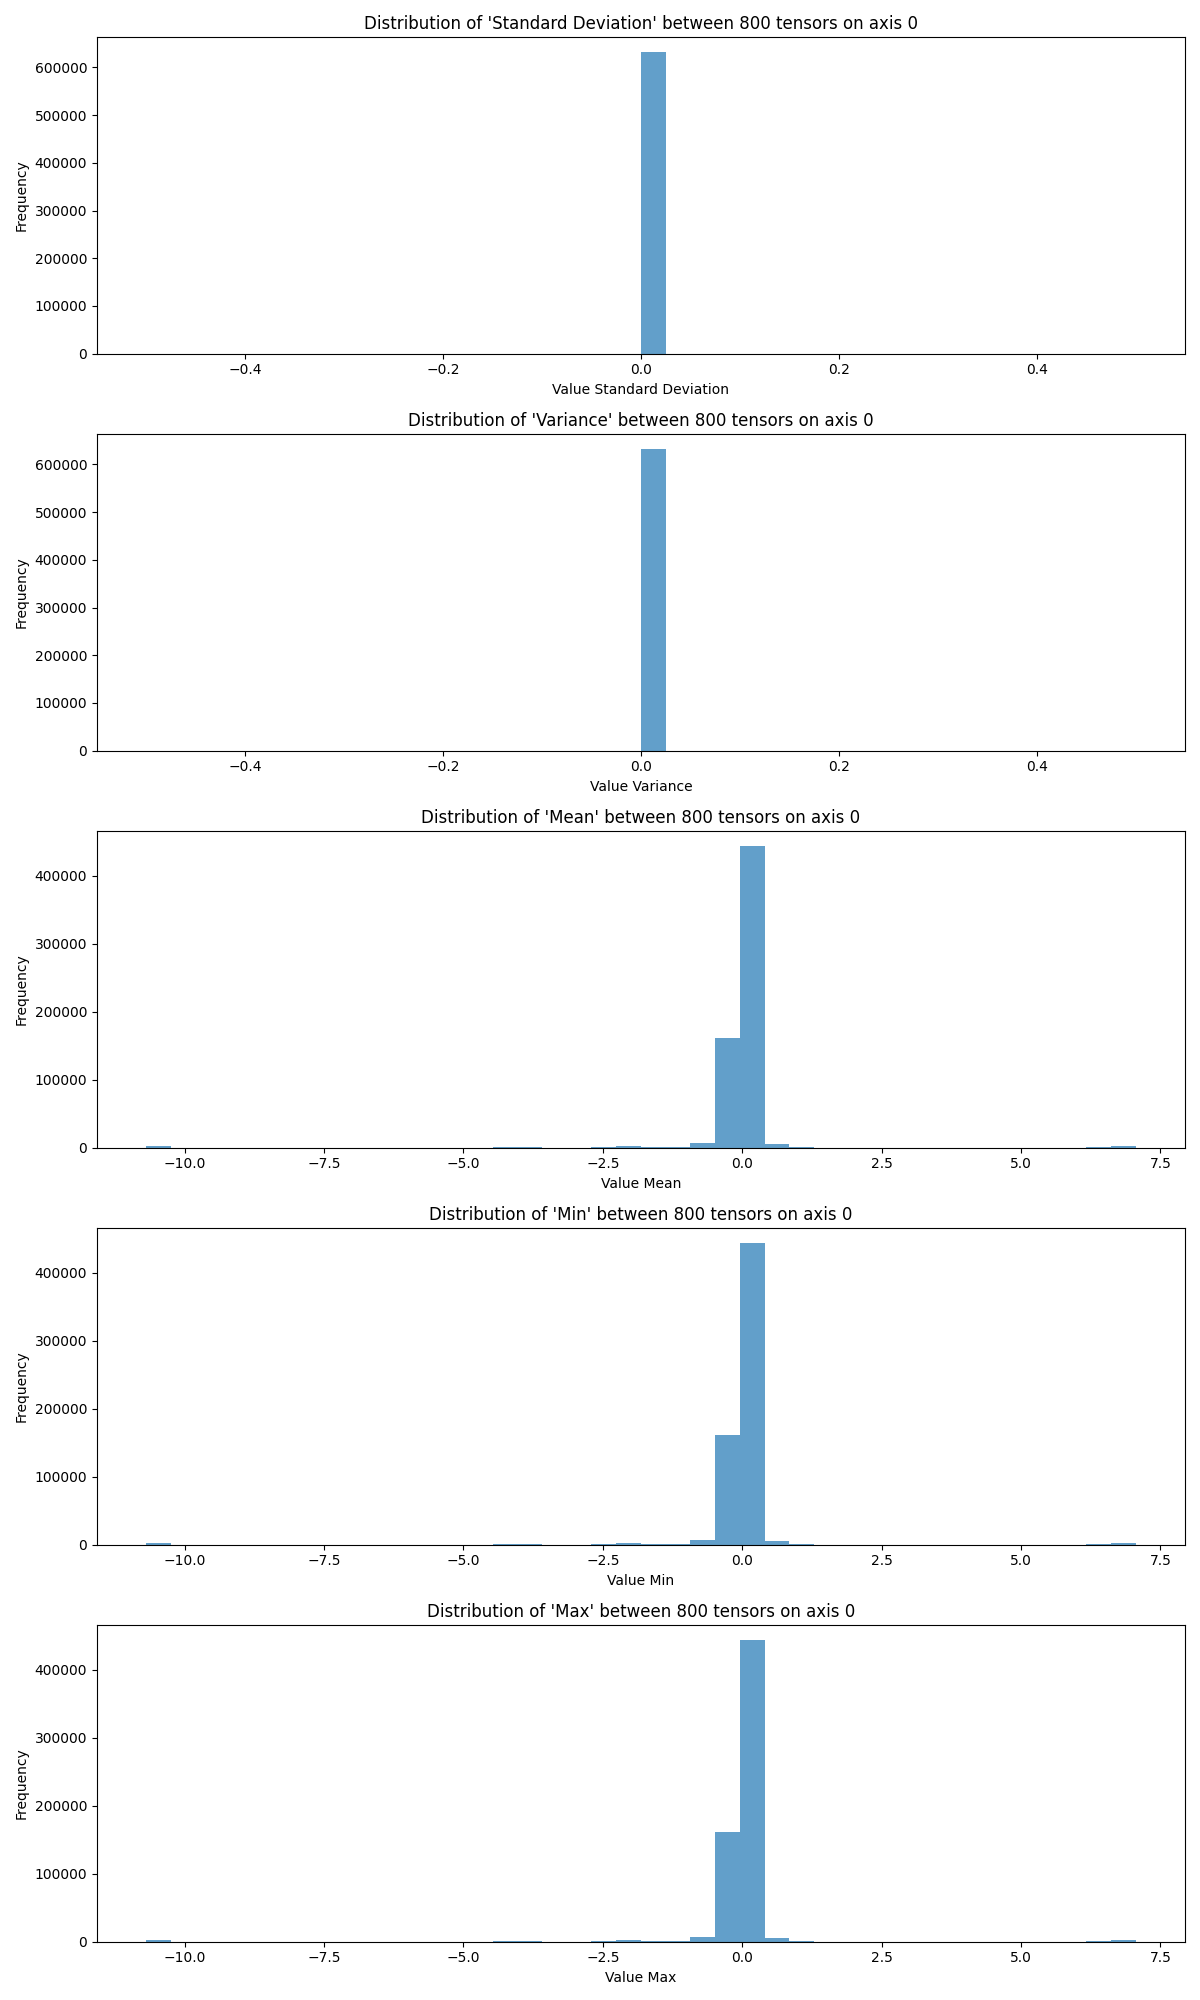
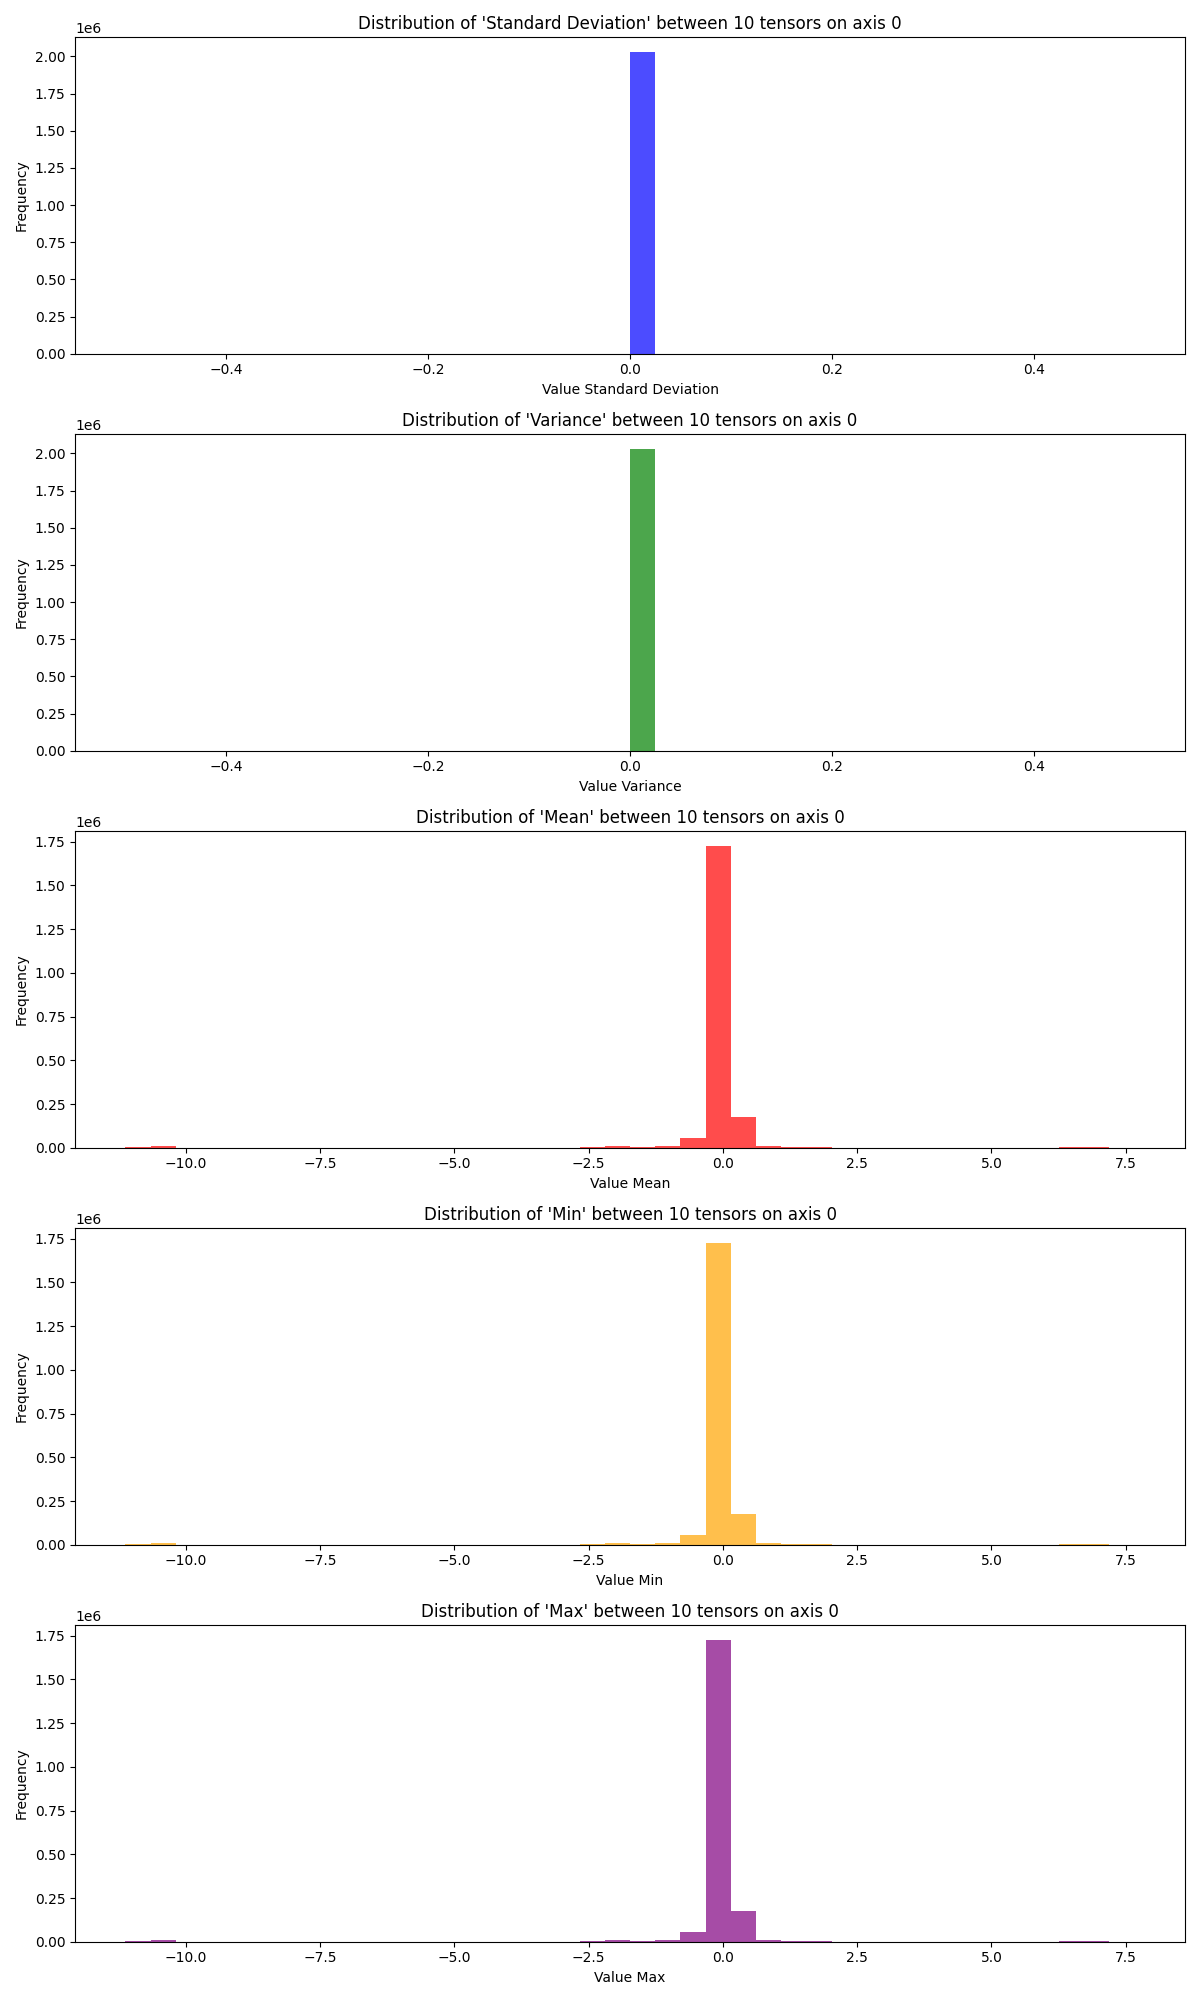
visualize data title string corrected

diff --git a/src/visualize_data.py b/src/visualize_data.py
@@ -1,3 +1,4 @@
+from os.path import basename, splitext, join
 import tensorflow as tf
 import numpy as np
 import argparse
@@ -8,11 +9,12 @@ from sklearn.decomposition import PCA
 from mpl_toolkits.mplot3d import Axes3D
 
 import loader
+import utils
 
 # Creazione di un tensore di esempio (sostituisci con il tuo tensore effettivo)
 # Il tensore dovrebbe avere la forma (n_campioni, n_dimensioni)
 
-OPERATIONS = ['statistics', 'statistics-all', 'TSNE']
+OPERATIONS = ['statistics-all', 'TSNE']
 COLORS = ["blue", "green", "red", "orange", "purple"]
 
 def my_TSNE(tensors):
@@ -35,7 +37,6 @@ def my_TSNE(tensors):
     # Mostra il grafico
     plt.show()
 
-def statistics(tensor_list):
     # Inizializza le liste per raccogliere le statistiche
     std_list = []
     var_list = []
@@ -76,7 +77,7 @@ def statistics(tensor_list):
 
     plt.savefig('statistics_test.png')
 
-def statistics_axis(tensor_list, axis=0):
+def statistics_axis(tensor_list, axis=0, output_path="./"):
     measures = ["Standard Deviation", "Variance", "Mean", "Min", "Max"]
     # Inizializza le liste per raccogliere le statistiche
     statistics = {
@@ -122,7 +123,7 @@ def statistics_axis(tensor_list, axis=0):
         axs[i].set_ylabel('Frequency')
 
     plt.tight_layout()
-    plt.savefig('statistics_test_axis'+ str(axis) + '.png')
+    plt.savefig(join(output_path, 'statistics_test_axis' + str(axis) + '.png'))
 
 def plot_3d_tensor(tensor, filename="3d_tensor_plot.png"):
     fig = plt.figure()
@@ -189,8 +190,10 @@ def my_PCA(tensor, n_components = 2):
 
     plt.show()
 
-def plot_tensor_fft_spectrum(tensor, log_scale=False):
+def plot_tensor_fft_spectrum(tensor, log_scale=False, save_in="./"):
+    name = "unknown"
     if isinstance(tensor, TensorContainer):
+        name = tensor.get_name()
         tensor = tensor.get_tensor()
     x, y, z = tensor.shape
     fft_results = []
@@ -202,21 +205,20 @@ def plot_tensor_fft_spectrum(tensor, log_scale=False):
     # Plotta lo spettro dell'FFT
     plt.imshow(np.log1p(fft_magnitude), cmap='viridis')  # Applica il logaritmo per una migliore visualizzazione
     plt.colorbar()
-    plt.title('Spettro dell\'FFT del Tensore')
-    plt.show()
+    plt.title(f'Tensor spectrum (FFT) {name}')
+    plt.savefig(join(save_in, name))
 
 def main(args):
 
-    np_tensors_list = loader.load_from_directory(args.input_path, args.n)
-
+    tensor_container_list = loader.load_from_directory(args.input_path, args.n)
+    tensors_list = utils.convert_to_tensor_list(tensor_container_list)
     operation = args.op
     if operation == OPERATIONS[0]:
-        statistics(np_tensors_list)
-    elif operation == OPERATIONS[1]:
         for i  in range(0, 4):
-            statistics_axis(np_tensors_list, axis=i)
-    elif operation == OPERATIONS[2]:
-        my_TSNE(np_tensors_list)
+            statistics_axis(tensors_list, axis=i, output_path=args.output_path)
+        statistics_axis(tensors_list, axis=None, output_path=args.output_path)
+    elif operation == OPERATIONS[1]:
+        my_TSNE(tensors_list)
 
 def parse_args():
     parser = argparse.ArgumentParser(

diff --git a/src/loader.py b/src/loader.py
@@ -4,6 +4,7 @@ import random
 import argparse
 import numpy as np
 import tensorflow as tf
+import utils
 from utils import TensorType, TensorContainer
 
 # Setting global seed
@@ -22,7 +23,6 @@ def load_from_directory(directory, batch_size, return_list=True):
     for filename in files_batch:
         file_path = os.path.join(directory, filename)
         name = splitext(basename(filename))[0]
-        print(name)
         try:
             data = np.load(file_path)
             if filename.endswith(".npz"):
@@ -42,23 +42,18 @@ def load_from_directory(directory, batch_size, return_list=True):
     else:
         print("No-Dict Returned.")
 
-# Convert a list of narray into a list of tf tensors
-def convert_to_tf(tensors:list):
-    for tensor_c in tensors:
-        tensor_c.tensor = tf.convert_to_tensor(tensor_c.get_tensor())
-        tensor_c.tensor_type = TensorType.TF_TENSOR
-    return
+
 
 
 def load_tensors(input_path, n=0, tensor_type=TensorType.TF_TENSOR):
     tensors = load_from_directory(input_path, n)
     if tensor_type == TensorType.TF_TENSOR:
-        convert_to_tf(tensors)
+        utils.convert_to_tf(tensors)
     return tensors
 
 def main(args):
     np_arr_list = load_from_directory(args.input_path, args.n ,return_list=True)
-    tf_arr_list = convert_to_tf(np_arr_list)
+    tf_arr_list = utils.convert_to_tf(np_arr_list)
     print(tf_arr_list)
 
 def parse_args():

diff --git a/test/fft2_test.py b/test/fft2_test.py
@@ -1,0 +1,27 @@
+import numpy as np
+import matplotlib.pyplot as plt
+from matplotlib.colors import LogNorm
+from scipy.fftpack import fftshift, fft2
+from PIL import Image
+
+# Percorso dell'immagine .png da aprire
+image_path = './test_fake_images/seed03834427.png'
+
+# Apri l'immagine e convertila in scala di grigi
+image = Image.open(image_path).convert('L')
+image_array = np.array(image)
+
+# Calcola la FFT2 dell'immagine e shifta lo spettro verso il centro
+fft_result = fft2(image_array)
+fft_shifted = fftshift(fft_result)
+
+# Calcola il modulo e il logaritmo del modulo per una migliore visualizzazione
+fft_magnitude = np.abs(fft_shifted)
+fft_magnitude_log = np.log1p(fft_magnitude)
+
+# Plotta lo spettro della FFT2
+plt.figure(figsize=(10, 10))
+plt.imshow(fft_magnitude_log, cmap='gray', norm=LogNorm())
+plt.title('Spettro della FFT2 con spostamento al centro')
+plt.colorbar(format='%g')
+plt.show()

diff --git a/src/utils.py b/src/utils.py
@@ -58,3 +58,13 @@ def reshape_all_3D(tensor_list:list):
             else:
                 tensor_c.tensor = tf.squeeze(tensor_c.tensor)
     return tensor_list
+
+def convert_to_tensor_list(tensor_container_list:list, tensor_type:TensorType=TensorType.NP_TENSOR):
+    return [tensor_c.tensor for tensor_c in tensor_container_list]
+
+# Convert a list of narray into a list of tf tensors
+def convert_to_tf(tensors:list):
+    for tensor_c in tensors:
+        tensor_c.tensor = tf.convert_to_tensor(tensor_c.get_tensor())
+        tensor_c.tensor_type = TensorType.TF_TENSOR
+    return

diff --git a/test/test.py b/test/test.py
@@ -56,7 +56,7 @@ def main(args):
     tf_tensors_list = loader.load_tensors(args_list[0], n=int(args_list[1]))
     tf_tensors_list = utils.reshape_all_3D(tf_tensors_list)
     test_tensor = tf_tensors_list[0]
-    # visualize_data.plot_tensor_fft_spectrum(test_tensor)
+    visualize_data.plot_tensor_fft_spectrum(test_tensor)
     visualize_data.plot_slices_average(test_tensor)
     return
 
